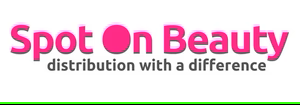
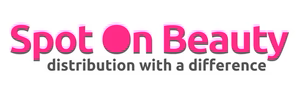
saving progress

diff --git a/spot_on_beauty_qr_codes.py b/spot_on_beauty_qr_codes.py
@@ -8,21 +8,22 @@ def draw_ui(canvas):
 
     # Load and display the logo image on the canvas
     logo = Image.open("resources/spot_on_beauty.png")  # Load the image
-    logo_resized = logo.resize((200, 100))  # Resize if needed to fit canvas dimensions
+    logo_resized = logo.resize((400, 133))  # Resize if needed to fit canvas dimensions
     logo_image = ImageTk.PhotoImage(logo_resized)  # Convert to PhotoImage for Tkinter
 
     # Keep a reference to avoid garbage collection
     canvas.image = logo_image
 
     # Draw the image on the canvas
-    canvas.create_image(110, 110, image=logo_image)  # Centered in the 220x220 canvas
+    canvas.create_image(250, 110, image=logo_image)  # Centered in the 220x220 canvas
 
 def update_ui():
     try:
         link = entry.get()
-        
-        if not link:
-            messagebox.showerror("Error", "Please enter text for the QR Code.")
+        file_name = file_name_entry.get()
+
+        if not link or not file_name:
+            messagebox.showerror("Error", "Please enter a name for the QR Code file and a link")
             return
 
         # Generate a QR code
@@ -32,8 +33,8 @@ def update_ui():
         qr_image = qr.make_image()
 
         # Save the QR code image
-        qr_image.save("qr_code_test.png")
-        messagebox.showinfo("Success", "QR Code has been generated and saved as 'qr_code_test.png'.")
+        qr_image.save("qrCodes/" + file_name + ".png")
+        messagebox.showinfo("Success", "QR Code has been generated and saved in the qrCodes folder")
 
     except Exception as e:
         messagebox.showerror("Error", f"An error occurred: {e}")
@@ -45,23 +46,30 @@ def update_ui():
 root = tk.Tk()
 root.title("QR Code Generator")
 
+# Canvas for drawing the gauge
+canvas = Canvas(root, width=500, height=200, bg="white")
+canvas.pack()
+
+# Initialize the gauge to a default value and display the logo
+draw_ui(canvas)
+
 # Label for the Entry
-entry_label = tk.Label(root, text="Enter text for QR Code:")
+file_name_label = tk.Label(root, text="Enter the name for the QR Code:")
+file_name_label.pack()
+
+file_name_entry = tk.Entry(root, width=25)
+file_name_entry.pack()
+
+# Label for the Entry
+entry_label = tk.Label(root, text="Enter the link for QR Code:")
 entry_label.pack()
 
 # Entry widget for text input
-entry = tk.Entry(root)
+entry = tk.Entry(root, width=50)
 entry.pack()
 
 # Button to generate QR Code
 update_button = tk.Button(root, text="Generate QR Code", command=update_ui)
 update_button.pack()
-
-# Canvas for drawing the gauge
-canvas = Canvas(root, width=400, height=200, bg="white")
-canvas.pack()
-
-# Initialize the gauge to a default value and display the logo
-draw_ui(canvas)
 
 root.mainloop()
